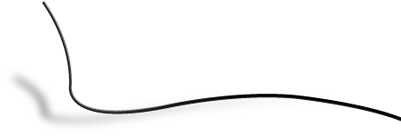
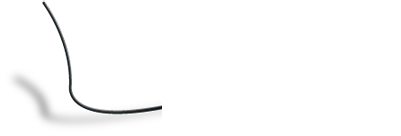
added frames

Changed region(s): [[0.389, 0.6765, 1.0, 0.9118]]

diff --git a/tesla/TeslaComponent.qml b/tesla/TeslaComponent.qml
@@ -5,21 +5,23 @@ import "QUItBatteryComponent"
 
 Item {
     id: teslaComponent
-    width: 1280
+    width: 1080
     height: 640
+    Image {
+        id: frame
+        anchors.centerIn: parent
+        source: "../images/component_frame.png"
+    }
 
     Tesla {
         id: tesla
-        anchors.top: parent.top
-        anchors.topMargin: 100
-        anchors.horizontalCenter: parent.horizontalCenter
-        anchors.horizontalCenterOffset: -20
+        anchors.centerIn: parent
     }
 
     // Add mirror effect to car
     ShaderEffect {
         anchors.top: tesla.bottom
-        anchors.topMargin: -38
+        anchors.topMargin: -165
         anchors.horizontalCenter: tesla.horizontalCenter
         width: tesla.width
         height: tesla.height
@@ -30,8 +32,8 @@ Item {
             uniform highp float qt_Opacity;
             uniform sampler2D source;
             void main(void) {
-                highp vec2 pos = vec2(qt_TexCoord0.x, (1.0 - qt_TexCoord0.y*0.8));
-                pos.x += (qt_TexCoord0.y*0.2) * (pos.x * -1.0 + 1.0);
+                highp vec2 pos = vec2(qt_TexCoord0.x, (1.0 - qt_TexCoord0.y*0.95));
+                pos.x += (qt_TexCoord0.y*0.1) * (pos.x * -1.0 + 1.0);
                 highp vec4 pix = texture2D(source, pos);
                 pix *= (0.4 - qt_TexCoord0.y*0.5) * min(qt_TexCoord0.y*5.0, 1.0)*1.7;
                 gl_FragColor = pix * qt_Opacity;
@@ -40,9 +42,7 @@ Item {
 
     ControlButtons {
         id: controlButtons
-        height: 300; width: 50;
-        anchors.bottom: tesla.bottom
-        anchors.bottomMargin: 25
+        anchors.verticalCenter: parent.verticalCenter
         anchors.left: parent.left
         anchors.leftMargin: 90
         startTeslaAppToggle.onToggled: launcherClient.launchApp("com.teslamotors.tesla")
@@ -50,8 +50,8 @@ Item {
 
     QUItBattery {
         id: battery
-        anchors.bottom: tesla.bottom
-        anchors.bottomMargin: 15
+        anchors.bottom: parent.bottom
+        anchors.bottomMargin: 250
         anchors.right: parent.right
         anchors.rightMargin: -35
         value: 0.0

diff --git a/main.qml b/main.qml
@@ -49,7 +49,7 @@ import Hue 0.1
 ApplicationWindow {
     id: mainView
     visible: true
-    width: 1280
+    width: 1200
     height: 1920 //1200
     color: "#E0E0E0"
 
@@ -66,6 +66,7 @@ ApplicationWindow {
         width: parent.width; height: 200;
     }
 
+    //Should include touch&hold menu to scheduel lights and attach events
     IconCarousel {
         id: lightControl
         width: parent.width
@@ -77,8 +78,14 @@ ApplicationWindow {
 
     TeslaComponent {
         id: teslaComponent
+        anchors.bottom: componentsSelector.top
+        anchors.horizontalCenter: parent.horizontalCenter
+    }
+
+    ComponentsSelector {
+        id: componentsSelector
         anchors.bottom: parent.bottom
-        anchors.left: parent.left
+        anchors.horizontalCenter: parent.horizontalCenter
     }
 
 //    FpsItem {

diff --git a/Carousel/ListItem.qml b/Carousel/ListItem.qml
@@ -32,13 +32,13 @@ Item {
             }
         }
     }
-    MouseArea {
-        anchors.fill: parent
-        propagateComposedEvents: true
-        onClicked: {
-            if (!isSelected)
-                pathView.currentIndex = model.index
-            mouse.accepted = false
-        }
-    }
+//    MouseArea {
+//        anchors.fill: parent
+//        propagateComposedEvents: true
+//        onClicked: {
+//            if (!isSelected)
+//                pathView.currentIndex = model.index
+//            mouse.accepted = false
+//        }
+//    }
 }

diff --git a/tesla/Car/Tesla.qml b/tesla/Car/Tesla.qml
@@ -2,7 +2,7 @@ import QtQuick 2.3
 import "Tesla.js" as TeslaAPI
 
 Item {
-    width: 750
+    width: 1280
     height: 300//285
     property int _id: 13598
     property string chargingState
@@ -29,6 +29,12 @@ Item {
 
     Item {
         id: teslaContainer
+        width: 750
+        height: 300
+        anchors.centerIn: parent
+
+        anchors.verticalCenterOffset: -60
+        anchors.horizontalCenterOffset: 30
         //scale: 1.33
 
         Text {

diff --git a/tesla/ControlButtons/ControlButtons.qml b/tesla/ControlButtons/ControlButtons.qml
@@ -3,6 +3,7 @@ import QtQuick.Controls 1.1
 import QtQuick.Controls.Styles 1.1
 
 Item {
+    height: 584; width: 50
     property alias startTeslaAppToggle: startTeslaAppToggle
     property alias chargingOn: chargingToggle.checked
 
